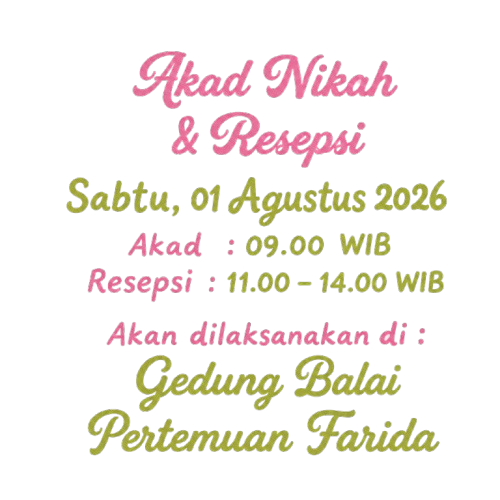
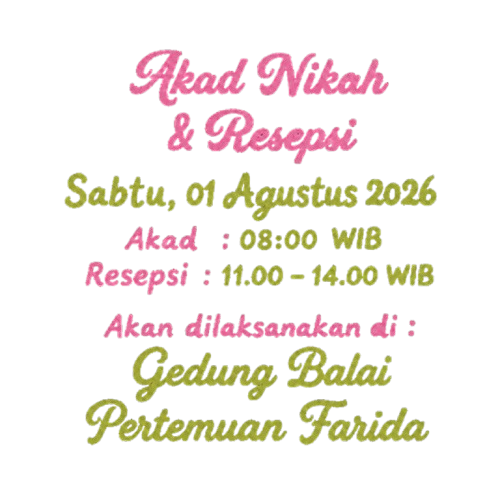
style: move nama mempelai image slightly up with negative margin

Changed region(s): [[0.12, 0.09, 0.9, 0.6], [0.15, 0.63, 0.9, 0.93]]

diff --git a/index.html b/index.html
@@ -21,12 +21,12 @@
         <meta name='robots' content='index, follow, max-image-preview:large, max-snippet:-1, max-video-preview:-1'>
 
 	<!-- This site is optimized with the Yoast SEO plugin v27.8 - https://yoast.com/product/yoast-seo-wordpress/ -->
-	<title>Nabilah 💗 Bima</title>
+	<title>Bima 💗 Nabilah</title>
 	<meta name="description" content="The Wedding of Nabilah &amp; Bima - Invitaton by KirimDigi">
 	<link rel="canonical" href="index.htm">
 	<meta property="og:locale" content="en_US">
 	<meta property="og:type" content="article">
-	<meta property="og:title" content="Nabilah &amp; Bima - KirimDigi">
+	<meta property="og:title" content="Bima &amp; Nabilah - KirimDigi">
 	<meta property="og:description" content="The Wedding of Nabilah &amp; Bima - Invitaton by KirimDigi">
 	<meta property="og:url" content="https://bycativestudio.com/octavia-fernando/">
 	<meta property="og:site_name" content="KirimDigi">
@@ -288,7 +288,7 @@ if(e)
 				</div>
 				<div class="elementor-element elementor-element-343e696 elementor-widget elementor-widget-image" data-id="343e696" data-element_type="widget" data-e-type="widget" data-widget_type="image.default">
 				<div class="elementor-widget-container">
-															<img decoding="async" width="1635" height="962" src="./nama%20mempelai.png" class="attachment-full size-full wp-image-148916" alt="" sizes="(max-width: 1635px) 100vw, 1635px">															</div>
+															<img decoding="async" width="1635" height="962" src="./nama%20mempelai.png" class="attachment-full size-full wp-image-148916" alt="" sizes="(max-width: 1635px) 100vw, 1635px" style="margin-top: -10% !important; position: relative; z-index: 5;">															</div>
 				</div>
 				</div>
 				</div>